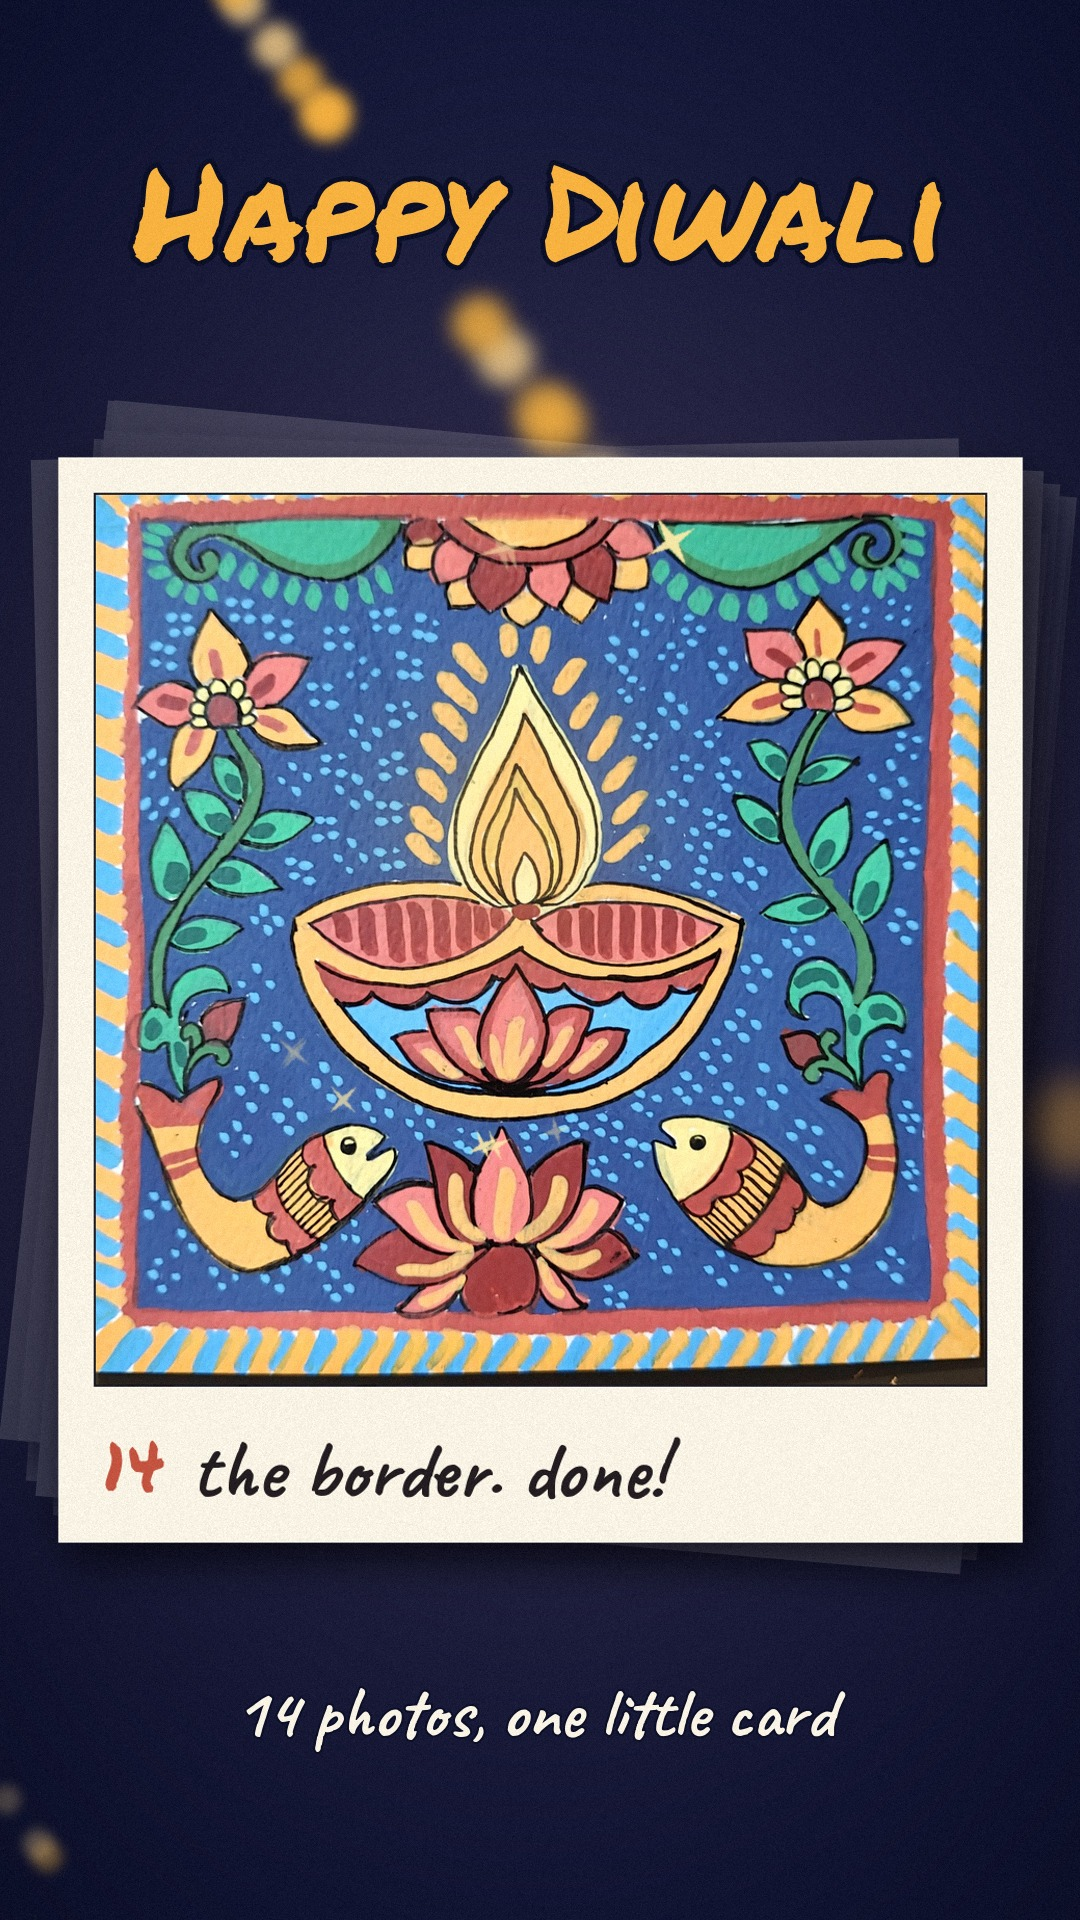
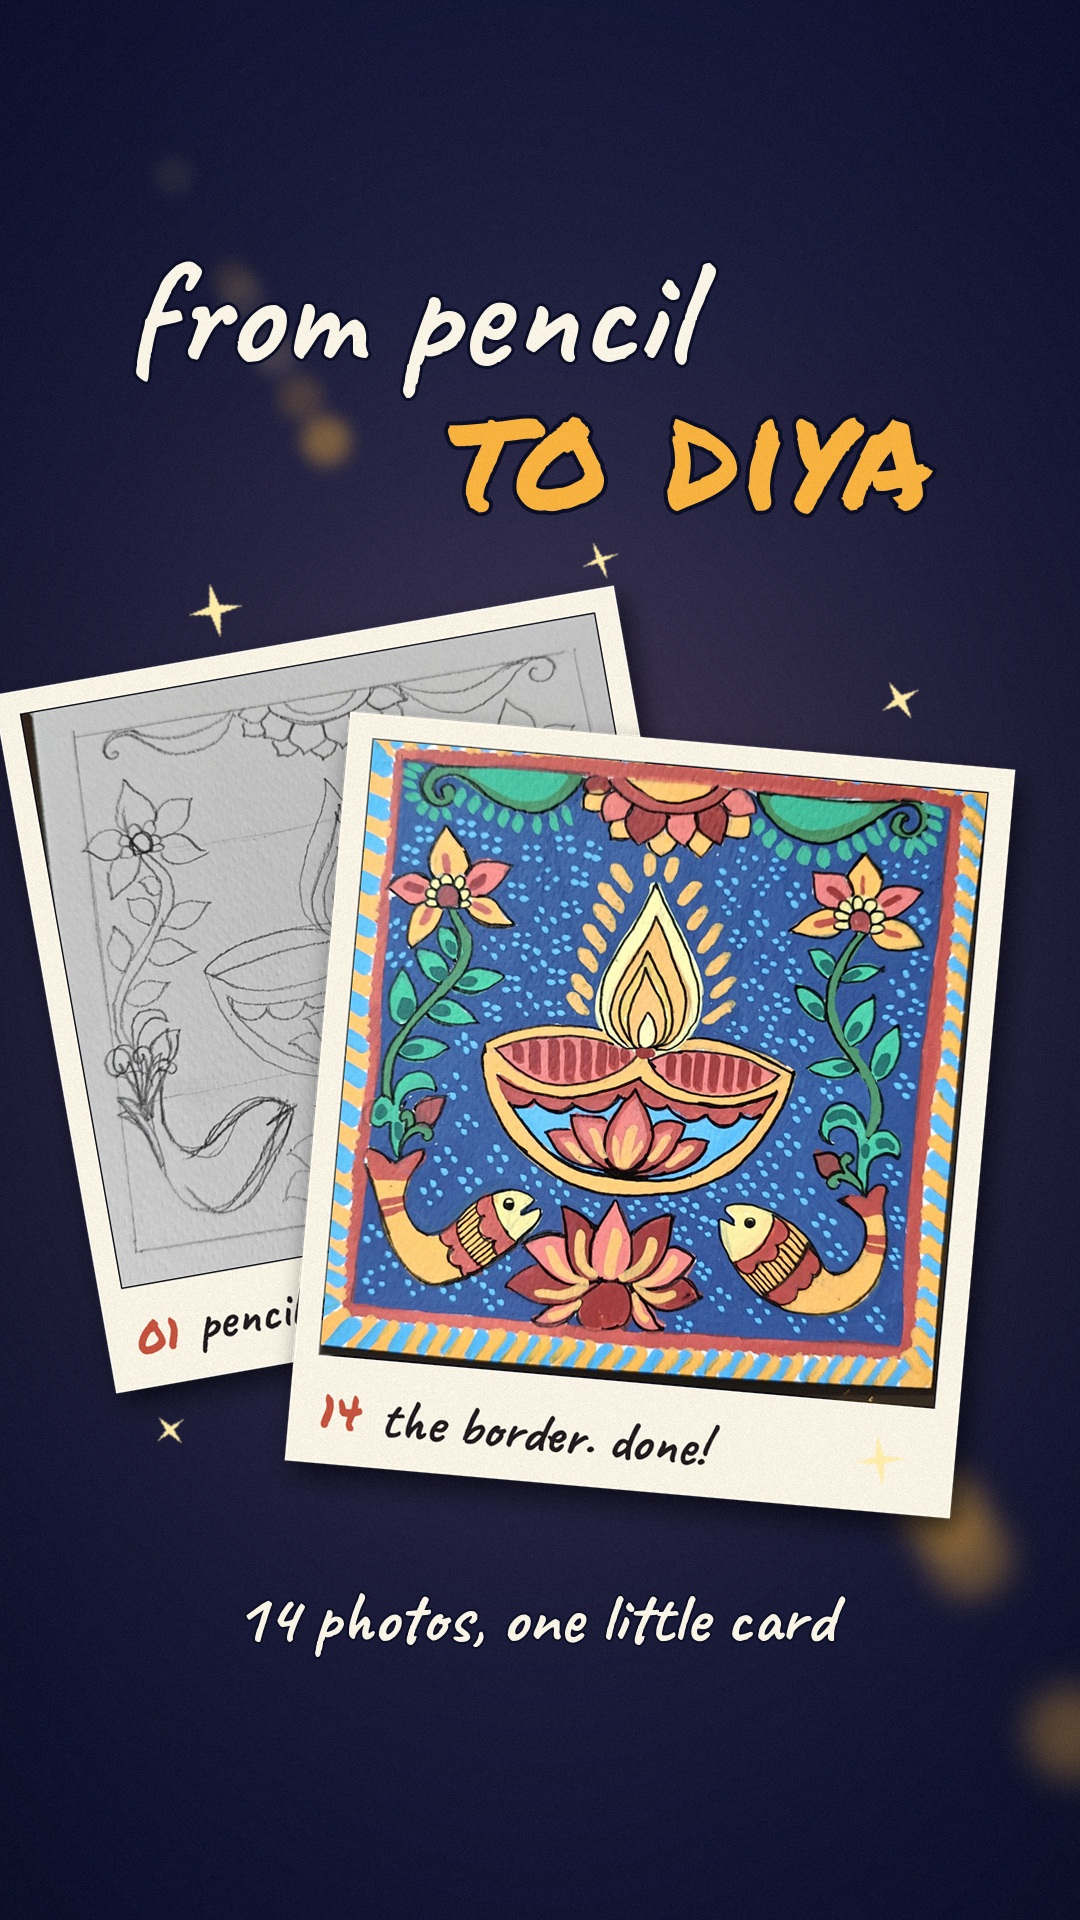
Add grid-safe cover and refreshed caption for the diya process reel
Claude-Session: https://claude.ai/code/session_01RrZXxCa3zHm2gX94uXYgjx

diff --git a/make_diya_reel.py b/make_diya_reel.py
@@ -7,6 +7,7 @@ flash and a small shake as each one lands. At the end the finished card lifts of
 pile and fills the screen while the flame glows and sparkles twinkle around it.
 
 Usage:  python3 make_diya_reel.py                  # renders output/diya_process.mp4
+        python3 make_diya_reel.py --cover            # just the reel cover (+ grid-crop preview)
         python3 make_diya_reel.py --preview 2 9 26  # stills at those seconds -> output/preview/
 """
 import math
@@ -428,8 +429,34 @@ def render_frame(frame):
     return render(frame / FPS).tobytes()
 
 
+def render_cover():
+    """Reel cover: the pencil-sketch print fanned behind the finished print, with the title.
+    Everything sits inside the middle 3:4 area (y 240..1680) that the profile grid shows."""
+    canvas = Image.fromarray(backdrop().astype(np.uint8)).convert("RGBA")
+    draw_bokeh(canvas, 3.0, 1.3)
+    a, b, _ = title_parts()
+    paste_center(canvas, a, W / 2 - 120, 330)
+    paste_center(canvas, b, W / 2 + 150, 465)
+    draw_print(canvas, 0, 365, 990, 10, 0.68)
+    draw_print(canvas, N - 1, 650, 1115, -5, 0.72)
+    for x, y, sz, rot in [(215, 610, 26, 10), (900, 700, 20, 30), (880, 1460, 24, 5), (170, 1430, 16, 40),
+                          (600, 560, 18, 20)]:
+        paste_center(canvas, sparkle(sz).rotate(rot, Image.BICUBIC), x, y)
+    tag = text_img("14 photos, one little card", caveat(70), CREAM, 2, INDIGO_DEEP)
+    paste_center(canvas, tag, W / 2, 1625)
+    arr = np.asarray(canvas.convert("RGB")).astype(np.float32)
+    arr += np.random.default_rng(4).normal(0, 2.5, (H, W, 1)).astype(np.float32)
+    return Image.fromarray(np.clip(arr, 0, 255).astype(np.uint8))
+
+
 def main():
     os.makedirs(OUT, exist_ok=True)
+    if "--cover" in sys.argv:
+        cov = render_cover()
+        cov.save(os.path.join(OUT, "diya_cover.jpg"), quality=94)
+        cov.crop((0, 240, W, 1680)).save(os.path.join(OUT, "diya_cover_grid_preview.jpg"), quality=90)
+        print("wrote", os.path.join(OUT, "diya_cover.jpg"))
+        return
     if "--preview" in sys.argv:
         pdir = os.path.join(OUT, "preview")
         os.makedirs(pdir, exist_ok=True)
@@ -452,7 +479,7 @@ def main():
                 print(f"frame {i}/{n}", flush=True)
     proc.stdin.close()
     proc.wait()
-    Image.fromarray(render(DURATION - 1.0)).save(os.path.join(OUT, "diya_cover.jpg"), quality=92)
+    render_cover().save(os.path.join(OUT, "diya_cover.jpg"), quality=94)
     print("wrote", out, f"({DURATION:.1f} s)")
 
 

diff --git a/README.md b/README.md
@@ -31,8 +31,8 @@ Fonts: Caveat and Special Elite (SIL OFL), and Permanent Marker (Apache 2.0), al
 A photo-animation reel (1080×1920, 29.5 s, 30 fps) made from 14 progress photos of a gouache Diwali card. Each photo becomes a printed photo with a handwritten step label. The prints are tossed onto a pile one by one, with a shutter flash and a small camera shake as each lands. At the end the finished card lifts off the pile, the flame glows, and "Happy Diwali" appears.
 
 - `output/diya_process.mp4`: the finished reel. It has a silent audio track, so you can add music in Instagram.
-- `output/diya_cover.jpg`: cover frame.
-- `output/diya_instagram_caption.txt`: post caption with hashtags.
+- `output/diya_cover.jpg`: a designed reel cover with the pencil-sketch print fanned behind the finished print. Everything sits inside the middle 3:4 area that the profile grid shows, and `output/diya_cover_grid_preview.jpg` shows that crop. `python3 make_diya_reel.py --cover` re-makes just the cover.
+- `output/diya_instagram_caption.txt`: post caption with 5 hashtags (Instagram's current limit).
 - `artworks/diya_process/`: the 14 progress photos, cropped to the card.
 - `make_diya_reel.py`: the renderer. Step labels are in `LABELS` and timings are at the top of the file.
 
